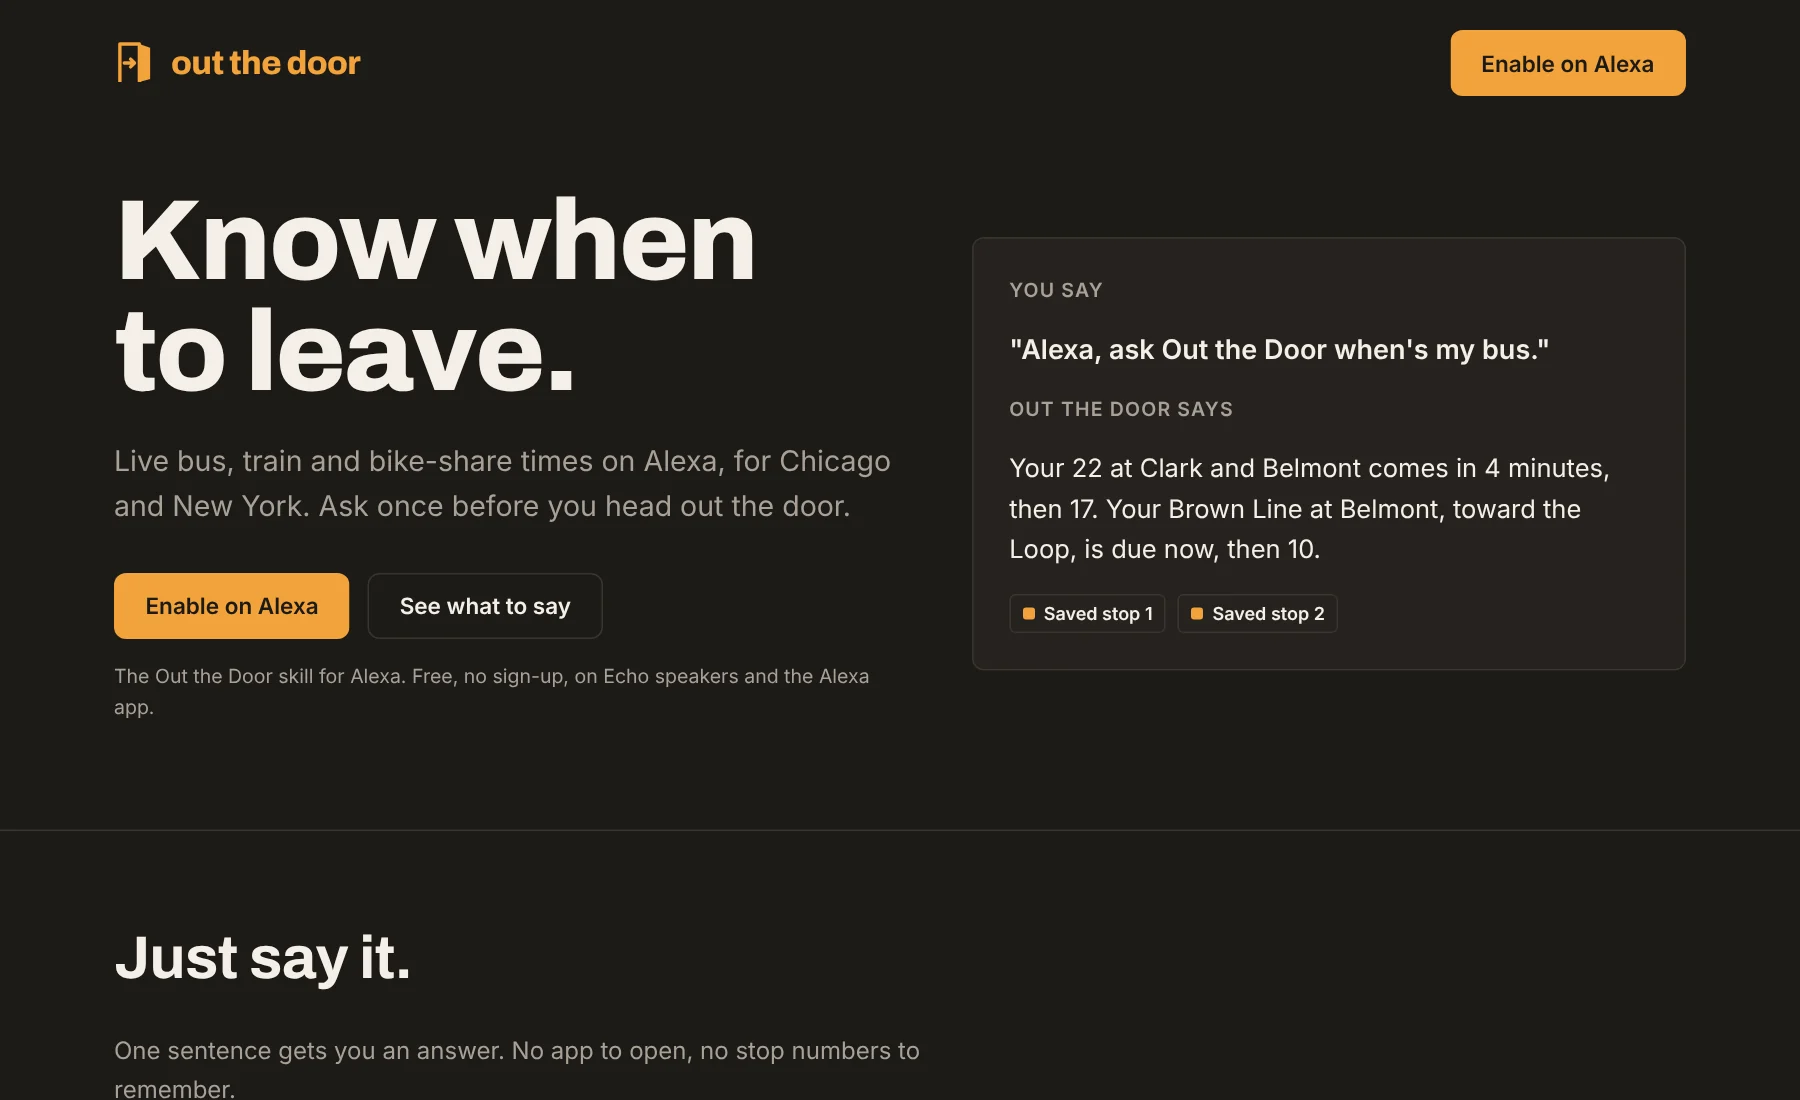
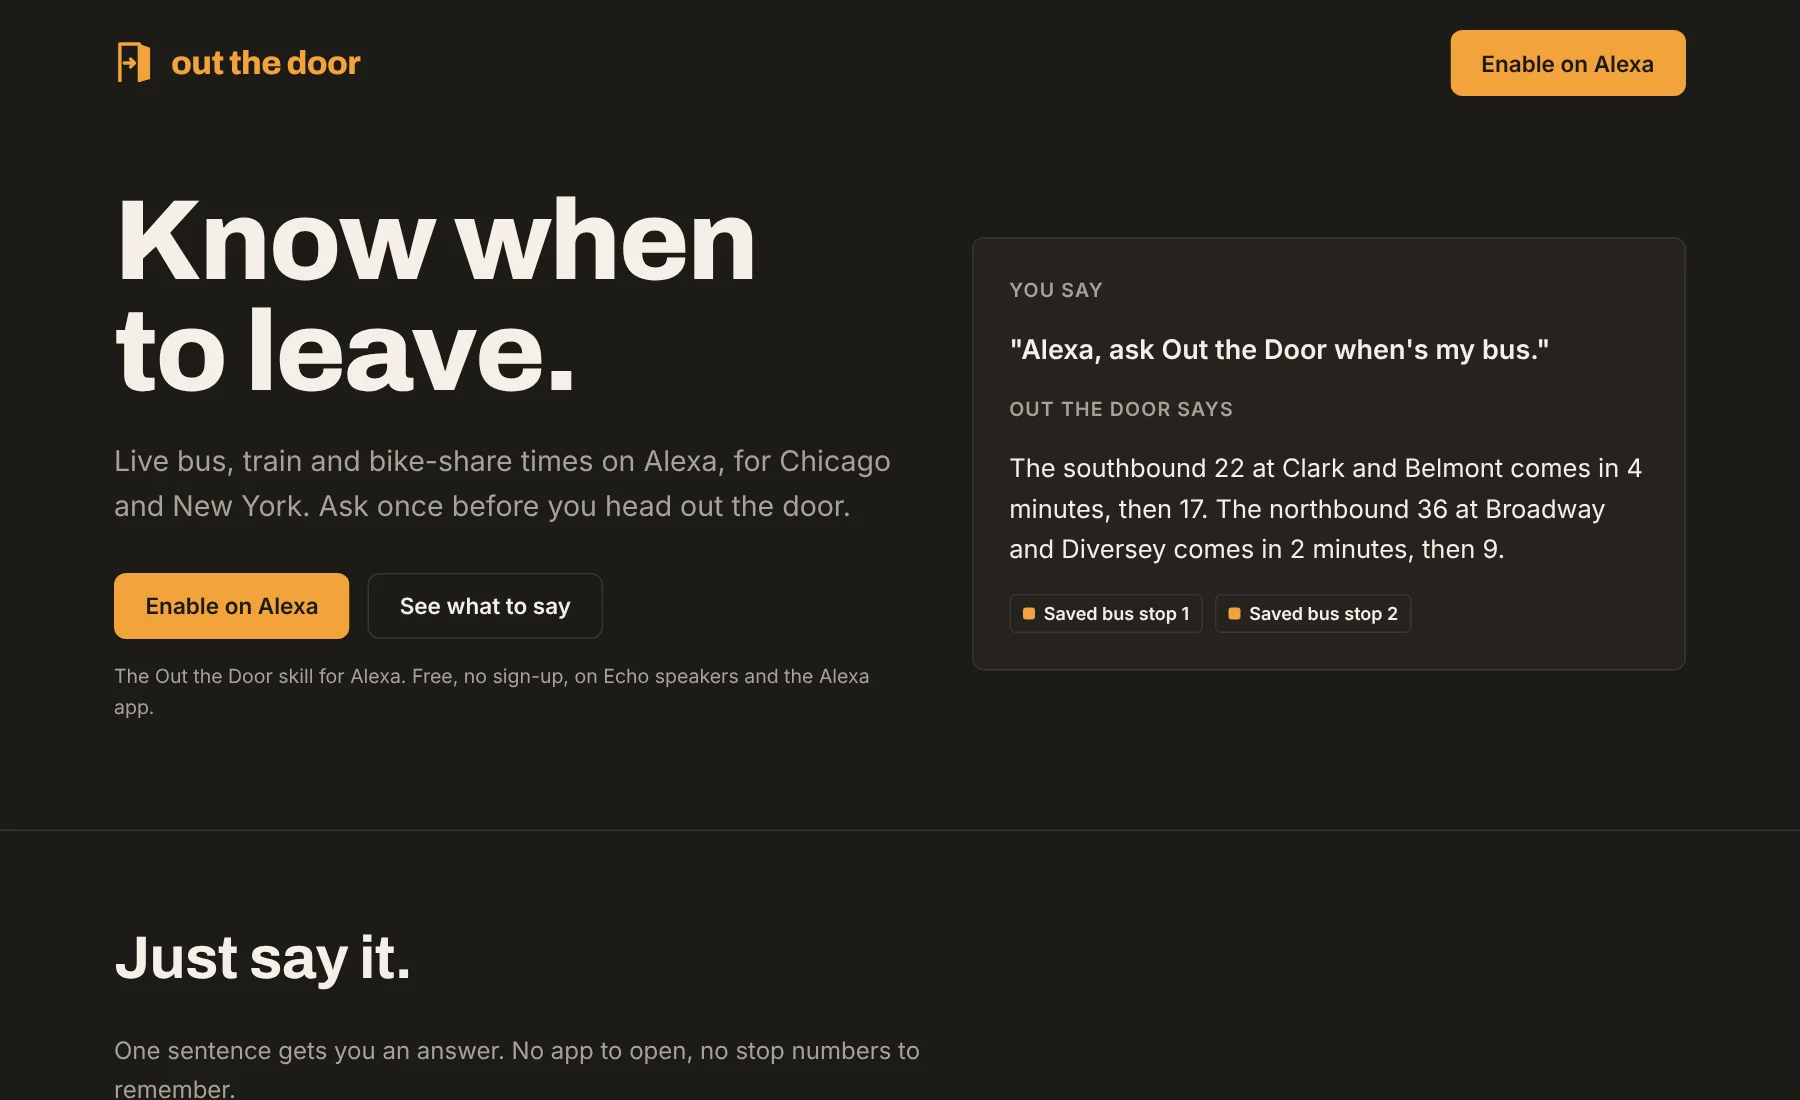
fix(work): match Out the Door case study to production details
Only bus stops can be saved, so the two-saved-stops answer now shows two
bus stops. Use the exact sample phrasing "the 44 at Wallace and 38th",
stop naming specific Pro features (none are built yet), and refresh the
screenshots, core diagram and demo video frame to match the live site.

Claude-Session: https://claude.ai/code/session_01XnDbDpTH5JA8nZwDr1Hqtn

Changed region(s): [[0.56, 0.4018, 0.9022, 0.5255], [0.6222, 0.5564, 0.7778, 0.5873]]

diff --git a/src/app/work/projects.ts b/src/app/work/projects.ts
@@ -549,20 +549,20 @@ const PROJECTS: Project[] = [
     services: ['Alexa Skill', 'Backend Architecture', 'AWS Infrastructure', 'Naming', 'Logo Design', 'Design System', 'Landing Page', 'Launch Funnel', 'Demo Video', 'Privacy & Terms'],
     scope:    ['Alexa skill', 'Core service architecture', 'AWS infrastructure', 'Brand & logo', 'Landing page & launch kit'],
     stack:    ['TypeScript', 'AWS Lambda', 'DynamoDB', 'SST', 'Amazon S3'],
-    heroImgAlt: 'Out the Door landing page: Know when to leave, beside an Alexa answer for two saved stops',
+    heroImgAlt: 'Out the Door landing page: Know when to leave, beside an Alexa answer for two saved bus stops',
     heroImgSrc: '/images/projects/outTheDoor/hero.webp',
     heroPages: [
-      { label: 'Home',           src: '/images/projects/outTheDoor/pages/home.webp',    width: 1600, height: 4046 },
-      { label: 'Privacy policy', src: '/images/projects/outTheDoor/pages/privacy.webp', width: 1600, height: 2431 },
-      { label: 'Terms of use',   src: '/images/projects/outTheDoor/pages/terms.webp',   width: 1600, height: 2050 },
+      { label: 'Home',           src: '/images/projects/outTheDoor/pages/home.webp',    width: 1600, height: 4036 },
+      { label: 'Privacy policy', src: '/images/projects/outTheDoor/pages/privacy.webp', width: 1600, height: 2483 },
+      { label: 'Terms of use',   src: '/images/projects/outTheDoor/pages/terms.webp',   width: 1600, height: 2024 },
     ],
     overview: {
       sidebar: 'An Alexa skill backed by a core commute service on serverless AWS, plus the brand and launch kit: name, logo, design system, landing page, launch funnel, legal pages and a social demo video.',
       heading: 'One question, answered before you leave.',
       body: [
-        'Out the Door is an Alexa skill for transit riders in Chicago and New York, built around one moment: at home, getting ready to leave, asking "Do I need to go now?" It answers in a sentence or two with live times for CTA buses and L trains, the New York subway and MTA buses in all five boroughs, and the nearest bike-share stations, and it answers two saved stops in a single question.',
-        'We named the product, drew the open-door logo, and set a small design system: warm amber on a near-black "night" ground, Archivo for headlines and Inter for text. The landing page leads with "Know when to leave.", shows a real spoken answer for two saved stops, and explains how it understands everyday phrasing like "the 44 Wallace going north at 38th". Every button points to one goal: enabling the skill.',
-        'Around the page we built the launch plan: an acquisition funnel with stage targets, privacy and terms pages, social share images, and a 30-second vertical demo video with an original soundtrack. The skill went live in November 2026, with a Pro tier for daily briefings and leave-time next.',
+        'Out the Door is an Alexa skill for transit riders in Chicago and New York, built around one moment: at home, getting ready to leave, asking "Do I need to go now?" It answers in a sentence or two with live times for CTA buses and L trains, the New York subway and MTA buses in all five boroughs, and the nearest bike-share stations, and it answers two saved bus stops in a single question.',
+        'We named the product, drew the open-door logo, and set a small design system: warm amber on a near-black "night" ground, Archivo for headlines and Inter for text. The landing page leads with "Know when to leave.", shows a real spoken answer for two saved bus stops, and explains how it understands everyday phrasing like "the 44 at Wallace and 38th". Every button points to one goal: enabling the skill.',
+        'Around the page we built the launch plan: an acquisition funnel with stage targets, privacy and terms pages, social share images, and a 30-second vertical demo video with an original soundtrack. The skill went live in November 2026, and a paid Pro tier is planned.',
       ],
     },
     highlights: {
@@ -600,12 +600,12 @@ const PROJECTS: Project[] = [
     },
     gallery: [
       { bg: '#1c1a17', src: '/images/projects/outTheDoor/hero.webp',             label: 'Landing page hero', size: 'wide', fit: 'contain',
-        fullPage: { src: '/images/projects/outTheDoor/pages/home.webp', width: 1600, height: 4046 } },
+        fullPage: { src: '/images/projects/outTheDoor/pages/home.webp', width: 1600, height: 4036 } },
       { bg: '#1c1a17', src: '/images/projects/outTheDoor/say-it-your-way.webp',  label: 'Say it your way: everyday phrasing, resolved', size: 'standard', fit: 'contain' },
       { bg: '#1c1a17', src: '/images/projects/outTheDoor/two-cities.webp',       label: 'Two cities, one skill', size: 'standard', fit: 'contain' },
       { bg: '#1c1a17', src: '/images/projects/outTheDoor/free-and-pro.webp',     label: 'Free now, Pro coming soon', size: 'standard', fit: 'contain' },
       { bg: '#1c1a17', src: '/images/projects/outTheDoor/logo.webp',             label: 'Logo lockup', size: 'standard', fit: 'contain' },
-      { bg: '#1c1a17', src: '/images/projects/outTheDoor/demo-video.webp',       label: 'Demo video: two saved stops, one question', size: 'standard', fit: 'contain' },
+      { bg: '#1c1a17', src: '/images/projects/outTheDoor/demo-video.webp',       label: 'Demo video: two saved bus stops, one question', size: 'standard', fit: 'contain' },
     ],
     nextProject: { slug: 'notedoctor-ios', tag: 'Mobile App · iOS', title: 'NoteDoctor.AI for iOS', desc: 'An iPhone app for the NoteDoctor.AI prior authorization platform, in development. Sign in or create an account, with the same clean, clinical look as the web app.', imgBg: '#0d1017' },
   },
